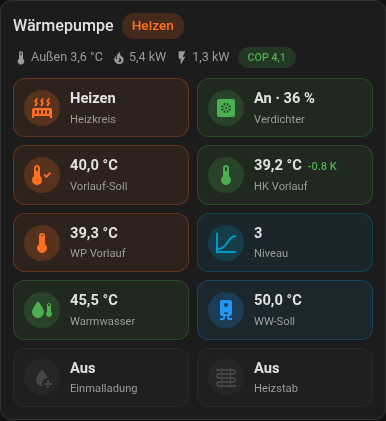
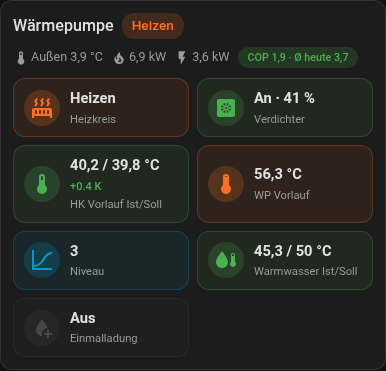
v0.3.2: card shows actual/target in one tile, daily COP, no heater tile
- HK Vorlauf and Warmwasser tiles show actual / setpoint; the separate
  setpoint tiles and the electric heater tile are no longer default
- header: COP now and today's average from the energy counters; the
  colour follows the daily value

diff --git a/custom_components/open3e_gateway/www/open3e-heatpump-card.js b/custom_components/open3e_gateway/www/open3e-heatpump-card.js
@@ -10,7 +10,7 @@
  * Entities are found through the integration (websocket open3e_gateway/entities),
  * so renamed entities keep working. No external libraries.
  */
-const VERSION = "0.3.1";
+const VERSION = "0.3.2";
 
 // tile key -> integration entity key (unique id without the config entry prefix)
 const KEYS = {
@@ -34,17 +34,20 @@ const KEYS = {
   errors: "0x680_265_value",
   power_el: "0x680_2488_value",
   power_th: "0x680_2496_value",
+  el_heat_today: "0x680_548_Today",
+  el_dhw_today: "0x680_565_Today",
+  th_heat_today: "0x680_1211_Today",
+  th_dhw_today: "0x680_1391_Today",
 };
 
-const DEFAULT_TILES = [
-  "circuit", "compressor", "flow_target", "flow_hk",
-  "flow_wp", "level", "dhw", "dhw_set", "one_time", "heater",
-];
+// flow_hk and dhw show actual / target in one tile; flow_target, dhw_set,
+// return and heater can still be added through `tiles`.
+const DEFAULT_TILES = ["circuit", "compressor", "flow_hk", "flow_wp", "level", "dhw", "one_time"];
 
 const TEXT = {
   de: {
     title: "Wärmepumpe", circuit: "Heizkreis", compressor: "Verdichter", flow_target: "Vorlauf-Soll",
-    flow_hk: "HK Vorlauf", flow_wp: "WP Vorlauf", return: "Rücklauf", level: "Niveau", dhw: "Warmwasser",
+    flow_hk: "HK Vorlauf Ist/Soll", flow_wp: "WP Vorlauf", return: "Rücklauf", level: "Niveau", dhw: "Warmwasser Ist/Soll", today: "Ø heute",
     dhw_set: "WW-Soll", one_time: "Einmalladung", heater: "Heizstab", outside: "Außen", errors: "Fehler",
     power: "Leistung", on: "An", off: "Aus", missing: "Integration open3e Gateway nicht gefunden",
     modes: { Off: "Aus", Heating: "Heizen", Automatic: "Automatik", Cooling: "Kühlen",
@@ -53,7 +56,7 @@ const TEXT = {
   },
   en: {
     title: "Heat pump", circuit: "Heating circuit", compressor: "Compressor", flow_target: "Flow target",
-    flow_hk: "Circuit flow", flow_wp: "Heat pump flow", return: "Return", level: "Curve level", dhw: "Hot water",
+    flow_hk: "Circuit flow act/target", flow_wp: "Heat pump flow", return: "Return", level: "Curve level", dhw: "Hot water act/target", today: "today",
     dhw_set: "DHW target", one_time: "One-time charge", heater: "Heater", outside: "Outside", errors: "errors",
     power: "Power", on: "On", off: "Off", missing: "open3e Gateway integration not found", modes: {},
   },
@@ -129,6 +132,11 @@ class Open3eHeatpumpCard extends HTMLElement {
     return this._hass.formatEntityState ? this._hass.formatEntityState(s) : `${s.state} ${s.attributes.unit_of_measurement || ""}`;
   }
 
+  _n(x, digits = 1) {
+    return x === null ? "–" : x.toLocaleString(this._hass.locale?.language || "en",
+      { maximumFractionDigits: 1, minimumFractionDigits: digits });
+  }
+
   _on(tile) { const s = this._st(tile); return s ? s.state === "on" : null; }
 
   _tile(tile) {
@@ -154,8 +162,9 @@ class Open3eHeatpumpCard extends HTMLElement {
       }
       case "flow_target": color = C.heat; break;
       case "flow_hk": {
-        const d = this._num("flow_hk") !== null && this._num("flow_target") !== null
-          ? this._num("flow_hk") - this._num("flow_target") : null;
+        const act = this._num("flow_hk"), target = this._num("flow_target");
+        value = `${this._n(act)} / ${this._n(target)} °C`;
+        const d = act !== null && target !== null ? act - target : null;
         color = d === null ? C.off : Math.abs(d) <= 2 ? C.ok : d < 0 ? C.water : C.heat;
         if (d !== null) sub = `${d > 0 ? "+" : ""}${d.toFixed(1)} K`;
         break;
@@ -176,6 +185,7 @@ class Open3eHeatpumpCard extends HTMLElement {
       }
       case "dhw": {
         const v = this._num("dhw"), set = this._num("dhw_set"), hyst = this._num("dhw_hyst_on");
+        value = `${this._n(v)} / ${this._n(set, 0)} °C`;
         const charging = this._on("dhw_charging") || opState === "dhw";
         if (charging) { color = C.water; sub = "lädt"; }
         else if (v !== null && set !== null && v < set - (hyst ?? 5)) color = C.bad;
@@ -198,10 +208,11 @@ class Open3eHeatpumpCard extends HTMLElement {
       }
       case "return": color = C.info; break;
     }
-    const id = this._id(tile);
+    // The hot water tile opens the setpoint, which is the part that can be changed.
+    const id = tile === "dhw" ? this._id("dhw_set") || this._id("dhw") : this._id(tile);
     return `<div class="tile${id ? " click" : ""}" data-entity="${id || ""}" style="--c:${color}">
       <div class="icon"><ha-icon icon="${ICONS[tile] || "mdi:information"}"></ha-icon></div>
-      <div class="txt"><div class="val">${value}${sub ? `<span class="sub">${sub}</span>` : ""}</div>
+      <div class="txt"><div class="val"><span>${value}</span>${sub ? `<span class="sub">${sub}</span>` : ""}</div>
       <div class="name">${t[tile] || tile}</div></div></div>`;
   }
 
@@ -212,7 +223,14 @@ class Open3eHeatpumpCard extends HTMLElement {
     const color = { heating: C.heat, dhw: C.water, heater: C.bad, standby: C.ok, off: C.off }[key] || C.off;
     const chip = st ? `<span class="chip" style="--c:${color}">${this._fmt("state")}</span>` : "";
     const cop = this._num("cop");
-    const copColor = cop === null ? C.off : cop >= 3.5 ? C.ok : cop >= 2.5 ? C.warn : C.bad;
+    // Daily COP from the heat pump's own energy counters (heating + hot water).
+    const el = (this._num("el_heat_today") ?? 0) + (this._num("el_dhw_today") ?? 0);
+    const th = (this._num("th_heat_today") ?? 0) + (this._num("th_dhw_today") ?? 0);
+    const copDay = el > 0.5 ? th / el : null;
+    // Colour from the daily value when there is one: the instantaneous COP swings
+    // with defrosting, buffer charging and compressor load.
+    const ref = copDay ?? cop;
+    const copColor = ref === null ? C.off : ref >= 3.5 ? C.ok : ref >= 2.5 ? C.warn : C.bad;
     const errors = this._num("errors");
     const pe = this._num("power_el"), pt = this._num("power_th");
     const kw = (w) => (w / 1000).toLocaleString(this._hass.locale?.language || "en", { maximumFractionDigits: 1, minimumFractionDigits: 1 });
@@ -225,7 +243,7 @@ class Open3eHeatpumpCard extends HTMLElement {
         ${errors ? `<span class="chip" style="--c:${C.bad}">${errors} ${t.errors}</span>` : ""}
         <span class="meta click" data-entity="${this._id("outside") || ""}"><ha-icon icon="mdi:thermometer"></ha-icon>${t.outside} ${this._fmt("outside")}</span>
         ${power}
-        ${cop !== null ? `<span class="chip click" data-entity="${this._id("cop")}" style="--c:${copColor}">COP ${cop.toLocaleString(this._hass.locale?.language || "en", { maximumFractionDigits: 1, minimumFractionDigits: 1 })}</span>` : ""}
+        ${cop !== null || copDay !== null ? `<span class="chip click" data-entity="${this._id("cop") || ""}" style="--c:${copColor}">COP ${this._n(cop)}${copDay !== null ? ` · ${t.today} ${this._n(copDay)}` : ""}</span>` : ""}
       </div></div>`;
   }
 
@@ -269,8 +287,9 @@ const STYLE = `
   .icon { flex: none; width: 36px; height: 36px; border-radius: 50%; display: flex; align-items: center; justify-content: center;
           color: var(--c); background: color-mix(in srgb, var(--c) 20%, transparent); }
   .txt { min-width: 0; }
-  .val { font-size: 1.05em; font-weight: 600; white-space: nowrap; }
-  .sub { font-size: 0.75em; font-weight: 500; color: var(--c); margin-left: 6px; }
+  .val { font-size: 1.05em; font-weight: 600; display: flex; flex-wrap: wrap; align-items: baseline; column-gap: 6px; }
+  .val > span:first-child { white-space: nowrap; }
+  .sub { font-size: 0.75em; font-weight: 500; color: var(--c); white-space: nowrap; }
   .name { font-size: 0.8em; color: var(--secondary-text-color); white-space: nowrap; overflow: hidden; text-overflow: ellipsis; }
   .click { cursor: pointer; }
   .err { color: var(--error-color, #db4437); padding: 8px; }

diff --git a/README.md b/README.md
@@ -44,22 +44,25 @@ normal_level_entity: input_number.wp_niveau_normal   # optional
 
 ![open3e heat pump card](docs/card.png)
 
-Header: operating state, outside temperature, heat and electrical power, COP,
-active errors. Tiles (tap for details / to change a setpoint):
+Header: operating state, outside temperature, heat and electrical power,
+COP now and today's average (from the heat pump's energy counters; the colour
+follows today's value), active errors. Tiles (tap for details / to change a
+setpoint):
 
-| Tile | Colour |
-|---|---|
-| Heating circuit (mode) | orange = heating, grey = off |
-| Compressor (+ speed) | green = running |
-| Flow target / circuit flow | circuit flow green within ±2 K of the target, blue below, orange above |
-| Heat pump flow | orange = heating, blue = hot water, grey = idle |
-| Curve level | amber when it differs from `normal_level_entity` |
-| Hot water / DHW target | blue = charging, red = below the switch-on point, green = ok |
-| One-time charge, electric heater | blue / red when on |
+| Tile | Shows | Colour |
+|---|---|---|
+| Heating circuit | mode | orange = heating, grey = off |
+| Compressor | on/off + speed | green = running |
+| HK Vorlauf Ist/Soll | circuit flow / flow setpoint, deviation in K | green within ±2 K, blue below, orange above |
+| WP Vorlauf | heat pump flow | orange = heating, blue = hot water, grey = idle |
+| Niveau | heating curve level (tap to change) | amber when it differs from `normal_level_entity` |
+| Warmwasser Ist/Soll | tank / setpoint (tap to change the setpoint) | blue = charging, red = below the switch-on point, green = ok |
+| Einmalladung | one-time charge | blue = on |
 
-Options: `title`, `tiles` (list and order of tiles: circuit, compressor,
-flow_target, flow_hk, flow_wp, return, level, dhw, dhw_set, one_time, heater),
-`entities` (override any entity, e.g. `flow_hk: sensor.x`), `entry_id`.
+Options: `title`, `tiles` (list and order; default circuit, compressor,
+flow_hk, flow_wp, level, dhw, one_time; also available: flow_target, dhw_set,
+return, heater), `entities` (override any entity, e.g. `flow_hk: sensor.x`),
+`entry_id`.
 
 ## Bus load
 
